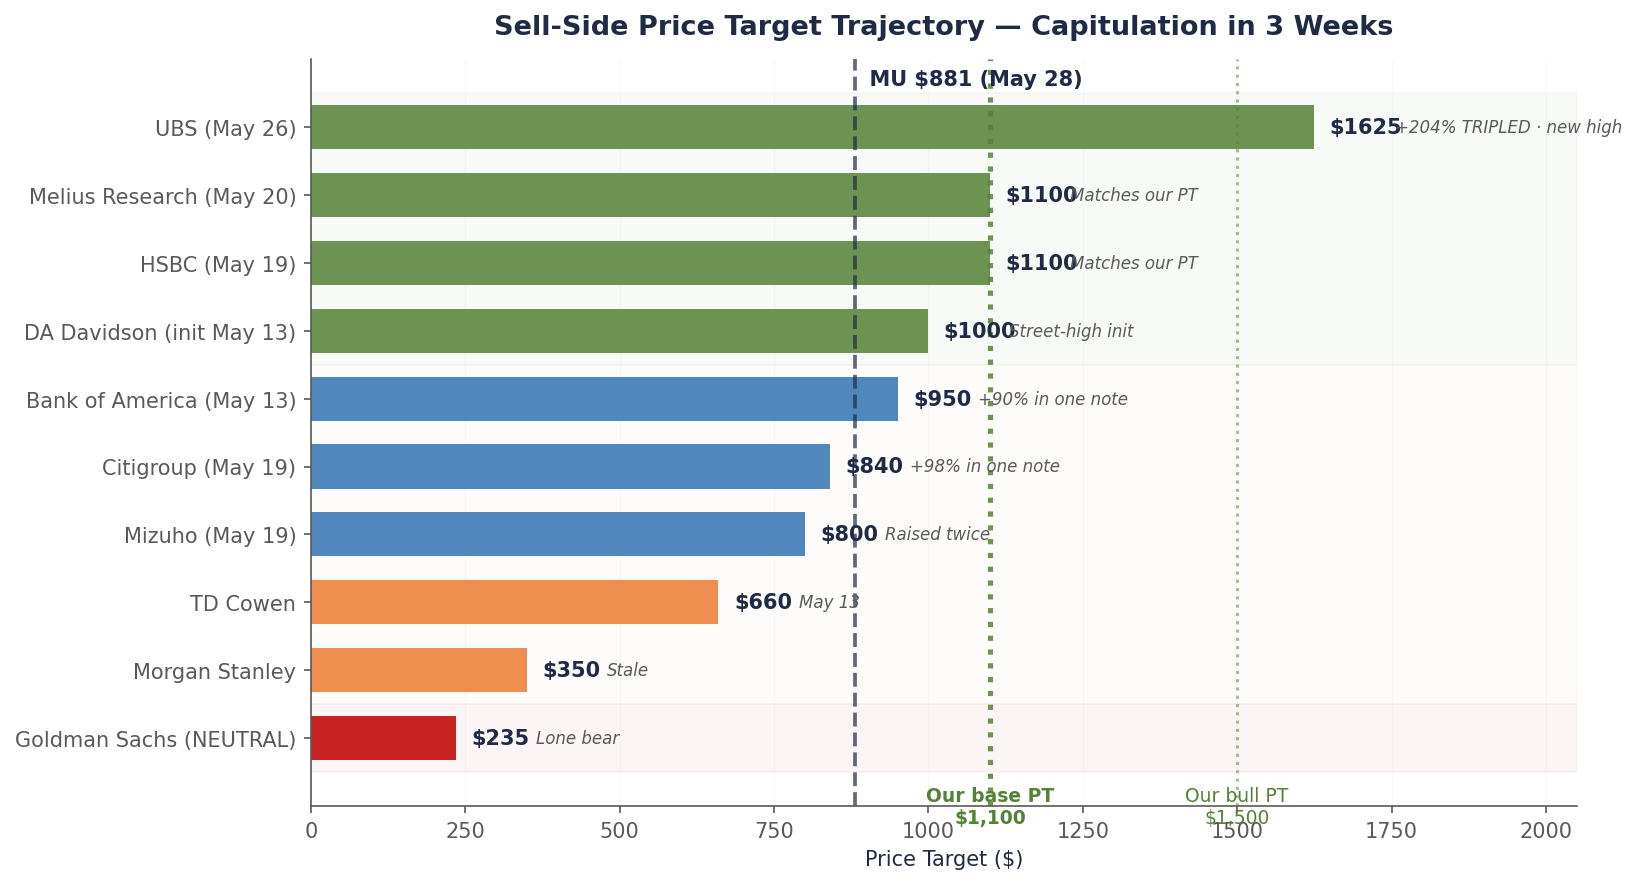
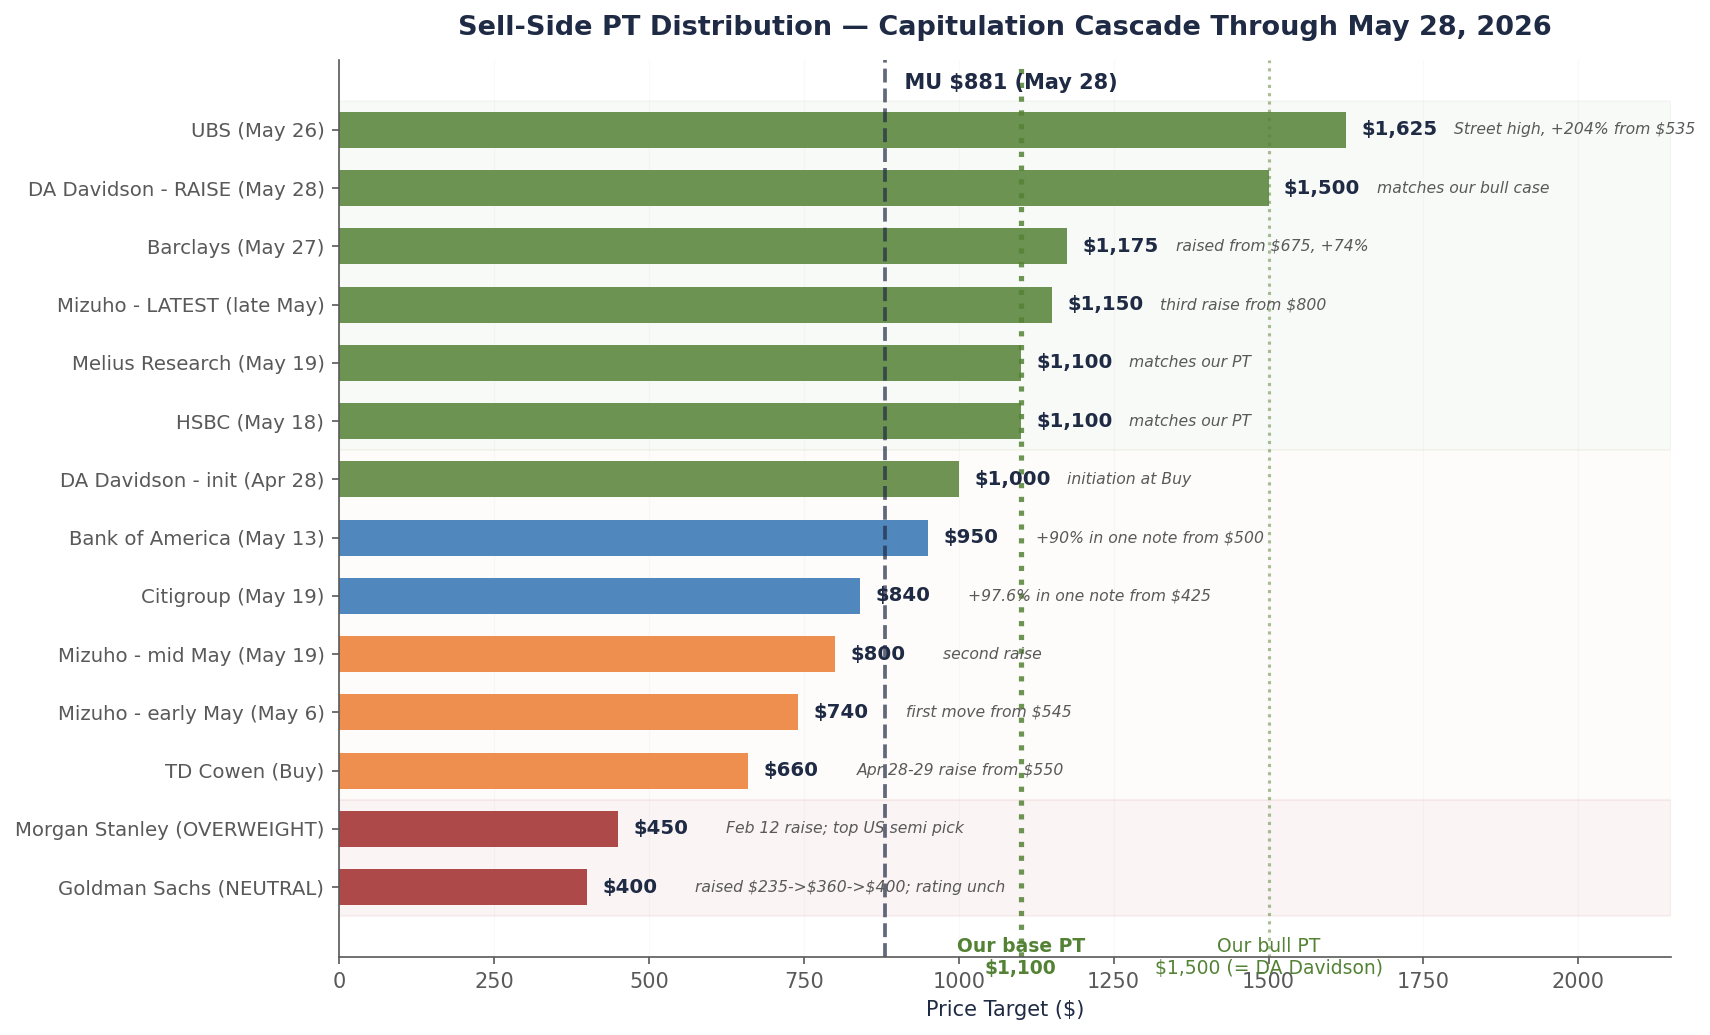
ship: MU June outlook + verified data refresh across MU series

Changed region(s): [[0.0, 0.0, 0.9976, 1.0], [0.717, 0.4887, 0.7482, 0.5498]]

diff --git a/mu-june-outlook-2026-05-31.html b/mu-june-outlook-2026-05-31.html
@@ -227,7 +227,7 @@
 
         <div class="pitch-thesis">
           <span class="pitch-thesis-label">The setup</span>
-          <p>For most of May, Micron was a story about sell-side capitulation. Nine analyst actions across eight banks in three weeks. UBS tripling its price target to a Street-high $1,625. The stock running from $668 to $923.52 &mdash; up 38% in 17 trading days. By Friday I&rsquo;d already hit my first trim level.</p>
+          <p>For most of May, Micron was a story about sell-side capitulation. More than a dozen verified analyst actions across eleven firms over five weeks. UBS tripling its price target to a Street-high $1,625. The stock running from $668 to $923.52 &mdash; up 38% in 17 trading days. By Friday I&rsquo;d already hit my first trim level.</p>
           <p>June stops being about narrative. <strong>FQ3 prints Wednesday June 24, after the close.</strong> Management guided $33.5B in revenue, 81% gross margin, and $19.15 in non-GAAP EPS. That&rsquo;s the bar a $1 trillion market cap has to clear. The number that decides whether the rally is the start of something or the end of something.</p>
           <p>What makes this print especially interesting: the last two quarters, MU has beaten its own guide by historically large margins. FQ2 was a 28% revenue beat and 45% EPS beat over what management told the Street to expect three months earlier. If even half of that pattern holds, FQ3 prints somewhere between &ldquo;clear beat&rdquo; and &ldquo;blowout.&rdquo; PT stays at $1,100. Next trim still at $1,100. The framework gets tested by an actual income statement instead of an analyst&rsquo;s spreadsheet.</p>
         </div>
@@ -245,11 +245,11 @@
 
         <p>Through May, the move was driven by analysts catching up to math that was already on the page. DRAM contract prices had moved 90&ndash;95% in a single quarter. Hyperscaler capex guides were the largest in the history of the industry. Micron itself had already printed 75% gross margin in FQ2. The estimates had to come up. Analysts came around to it in sequence. The stock came around to it in compressed time.</p>
 
-        <p>That&rsquo;s a story that runs out. There are only so many banks left to capitulate, and the ones who haven&rsquo;t yet (Goldman at $235 NEUTRAL, Morgan Stanley at a stale $350) are increasingly looking like the contrarians. When everyone above a thousand becomes consensus, the next leg has to come from somewhere other than sell-side mathematics.</p>
+        <p>That&rsquo;s a story that runs out. There are only so many banks left to capitulate. Goldman is still the lone NEUTRAL on the name &mdash; though they&rsquo;ve quietly walked their PT from $235 in December all the way to $400, while keeping the rating unchanged. Morgan Stanley&rsquo;s $450 OVERWEIGHT was set back in February and called MU the firm&rsquo;s top US semi pick &mdash; they haven&rsquo;t needed to chase. When everyone else above $1,000 becomes consensus, the next leg has to come from somewhere other than sell-side mathematics.</p>
 
         <p>It has to come from <strong>company numbers</strong>. From the actual income statement. From forward guidance. From management saying out loud what the spreadsheets have been implying.</p>
 
-        <div class="pull-quote">Sell-side models can pull a stock from $235 to $1,625 in three weeks. They can&rsquo;t pull it from $923 to $1,500 without an earnings number to point at. That&rsquo;s what June is.</div>
+        <div class="pull-quote">Sell-side targets can fan out 4&times; in five weeks &mdash; Goldman still at $400 NEUTRAL, UBS now at $1,625. They can&rsquo;t pull the stock from $923 to $1,500 without an earnings number to point at. That&rsquo;s what June is.</div>
 
         <p>The cleanest test arrives on Wednesday June 24, after the close. Micron reports fiscal Q3 2026 (the quarter ending May). It&rsquo;s the first earnings print since the whole memory complex re-priced. Every number management gives is going to be measured against the run-up &mdash; not against last quarter, not against last year, but against the $1 trillion the market has now decided the company is worth.</p>
       </section>
@@ -343,16 +343,16 @@
       <section class="pitch-section" id="sell-side-state">
         <h2>Where the sell-side actually stands today</h2>
 
-        <p>Three changes since the May 28 piece. DA Davidson raised PT from $1,000 to $1,500 (May 28 &mdash; now sits exactly on our bull case). Goldman&rsquo;s macro team hiked their S&amp;P 500 target to 8,000 and named Micron and NVIDIA as accounting for roughly a third of 2026 index EPS growth &mdash; without changing Goldman&rsquo;s own NEUTRAL rating on MU. Mizuho and BofA both reiterated post-UBS without raising further.</p>
+        <p>Four notable changes since the May 28 piece. <strong>DA Davidson raised PT from $1,000 to $1,500 (May 28)</strong> &mdash; sits exactly on our bull case. <strong>Barclays raised from $675 to $1,175 (May 27)</strong> &mdash; the chart now has another name above our PT that wasn&rsquo;t there before. <strong>Mizuho raised a third time, from $800 to $1,150</strong>, after two prior raises in May. And <strong>Goldman strategist Ben Snider hiked the S&amp;P 500 target to 8,000</strong> (from 7,600), explicitly naming Micron and NVIDIA as accounting for roughly a third of 2026 index EPS growth &mdash; while Goldman&rsquo;s single-stock desk kept MU at NEUTRAL.</p>
 
         <figure class="article-chart">
           <p class="chart-title">Chart 3 &mdash; Sell-side PT distribution, updated through May 31</p>
-          <p class="chart-headline">Six of ten analysts now sit at or above our base PT. Two are at or above our bull case.</p>
-          <img class="chart-img" src="assets/reports/mu-june-outlook-2026-05-31-c3-sellside-may31.png" alt="Updated sell-side price target distribution as of May 31, 2026 showing ten analyst price targets with Goldman lowest at $235, UBS highest at $1,625, and Brandon's $1,100 PT in the middle of the cluster" />
-          <p class="chart-caption">Goldman alone in red below current. UBS, DA Davidson, HSBC, and Melius now above or at our PT. Source: bank notes via Bloomberg, firm disclosures.</p>
+          <p class="chart-headline">Seven of fourteen analyst actions now at or above our base PT. Two at or above our bull case.</p>
+          <img class="chart-img" src="assets/reports/mu-june-outlook-2026-05-31-c3-sellside-may31.png" alt="Updated sell-side price target distribution as of May 31, 2026 showing 14 verified analyst actions with Goldman at $400 NEUTRAL the lowest, UBS at $1,625 the highest, and Brandon's $1,100 PT in the middle of the cluster" />
+          <p class="chart-caption">Goldman and Morgan Stanley still below current. UBS, DA Davidson, Barclays, Mizuho (latest), HSBC, and Melius now above or at our PT. Source: bank notes via Bloomberg, Investing.com, MarketBeat, TipRanks, firm disclosures.</p>
         </figure>
 
-        <p>The cross-confirmation read &mdash; Goldman&rsquo;s macro desk endorsing the MU earnings thesis while Goldman&rsquo;s single-stock desk stays NEUTRAL &mdash; is exactly the kind of internal dissonance that resolves loudly when someone capitulates. I&rsquo;d watch for a Goldman PT raise sometime in the next four weeks.</p>
+        <p>The cross-confirmation read &mdash; Goldman&rsquo;s strategy desk endorsing the MU earnings thesis while Goldman&rsquo;s single-stock desk stays NEUTRAL at $400 &mdash; is exactly the kind of internal dissonance that resolves loudly when someone capitulates. I&rsquo;d watch for a Goldman PT raise sometime in the next four weeks. Morgan Stanley at $450 OVERWEIGHT is the other obvious candidate &mdash; their February PT was set when MU was below $200; they&rsquo;ve had MU as their top US semi pick the whole way up.</p>
       </section>
 
       <section class="pitch-section" id="position">
@@ -411,7 +411,7 @@
       </section>
 
       <p class="disclosure">
-        Disclosure: I/we have a beneficial long position in the shares of MU either through stock ownership, options, or other derivatives. Position was reduced by approximately one-third on May 29, 2026 per the published trim ladder. I wrote this article myself, and it expresses my own opinions. I am not receiving compensation for it. I have no business relationship with any company whose stock is mentioned in this article. This is research and analysis only, not personalized financial advice. This commentary is for informational and educational purposes only and does not constitute investment, tax, or legal advice or a solicitation to buy or sell any security. Past performance is not indicative of future results. Readers should conduct their own research and consult a qualified financial professional before making investment decisions. Sources include Micron IR disclosures and 8-K filings, sell-side notes (UBS, BofA, HSBC, Melius Research, DA Davidson, Citigroup, Mizuho, TD Cowen, Morgan Stanley, Goldman Sachs), TrendForce DRAM contract pricing reports, Counterpoint Research HBM share data, hyperscaler Q1 2026 earnings transcripts, Korean Ministry of Trade export statistics, and Bloomberg consensus data. See <a href="disclaimer.html">disclaimer</a>.
+        Disclosure: I/we have a beneficial long position in the shares of MU either through stock ownership, options, or other derivatives. Position was reduced by approximately one-third on May 29, 2026 per the published trim ladder. I wrote this article myself, and it expresses my own opinions. I am not receiving compensation for it. I have no business relationship with any company whose stock is mentioned in this article. This is research and analysis only, not personalized financial advice. This commentary is for informational and educational purposes only and does not constitute investment, tax, or legal advice or a solicitation to buy or sell any security. Past performance is not indicative of future results. Readers should conduct their own research and consult a qualified financial professional before making investment decisions. Sources include Micron IR disclosures and 8-K filings, sell-side notes (UBS, BofA, HSBC, Melius Research, DA Davidson, Barclays, Citigroup, Mizuho, TD Cowen, Morgan Stanley, Goldman Sachs), TrendForce DRAM contract pricing reports, Counterpoint Research HBM share data, hyperscaler Q1 2026 earnings transcripts, Korean Ministry of Trade export statistics, and Bloomberg consensus data. See <a href="disclaimer.html">disclaimer</a>.
       </p>
 
       <div class="pitch-cta">

diff --git a/mu-after-ubs-2026-05-28.html b/mu-after-ubs-2026-05-28.html
@@ -7,7 +7,7 @@
   <meta name="color-scheme" content="light only" />
   <meta name="theme-color" content="#fbf7ef" />
   <meta name="supported-color-schemes" content="light" />
-  <meta name="description" content="Three weeks ago Goldman was at $235 on Micron and everyone agreed memory cycles always end in tears. On Tuesday UBS tripled their price target to $1,625 and the stock crossed $1 trillion. The variant view became consensus. Now comes the harder discipline." />
+  <meta name="description" content="Three weeks ago Goldman was at $400 NEUTRAL on Micron and the street median was below $600. On Tuesday UBS tripled their price target to $1,625 and the stock crossed $1 trillion. The variant view became consensus. Now comes the harder discipline." />
   <meta name="author" content="Brandon Leon" />
   <link rel="canonical" href="https://bpleon.com/mu-after-ubs-2026-05-28.html" />
 
@@ -222,7 +222,7 @@
         <div class="pitch-thesis">
           <span class="pitch-thesis-label">The bottom line</span>
           <p>A memory analyst&rsquo;s career goes through three phases. First they&rsquo;re a bull, and they&rsquo;re right for a while. Then they&rsquo;re a bull, and they&rsquo;re catastrophically wrong. Then they spend the rest of their career being a careful, modest bear who occasionally gets ridiculed for missing the next supercycle. Last week, after Micron crossed a trillion dollars in market cap, I started thinking about which phase I&rsquo;m in.</p>
-          <p>Three weeks ago I argued that Wall Street had a math problem on Micron: earnings estimates had been revised up 3.6&times; over eighteen months, but price targets hadn&rsquo;t followed. Goldman sat at $235 with a NEUTRAL rating &mdash; a 2.35&times; multiple on peak earnings. The variant view: apply 11&times; (Micron&rsquo;s historical recovery-year multiple) to consensus FY27 EPS of $100, and you get a $1,100 price target. Roughly double the street median of $549.</p>
+          <p>Three weeks ago I argued that Wall Street had a math problem on Micron: earnings estimates had been revised up 3.6&times; over eighteen months, but price targets hadn&rsquo;t kept pace. Goldman sat at $400 NEUTRAL &mdash; a 4&times; forward multiple on a consensus EPS that had been moving steadily higher. Historical MU recovery years (FY16, FY20, FY24) traded at 11&ndash;14&times; the same-year EPS. The variant view: apply 11&times; (the median of that sample) to a credible FY27 EPS of $100, and you get a $1,100 price target. Roughly double the street median of $549.</p>
           <p>On Tuesday May 26, UBS tripled their price target from $535 to $1,625. The stock briefly crossed $1 trillion in market cap for the first time in company history. The variant view became consensus &mdash; faster than I expected.</p>
           <p><strong>My PT stays at $1,100.</strong> I&rsquo;m not chasing UBS higher. The trim ladder I committed to at $668 still runs: $900 / $1,100 / $1,400 / full exit at $1,500 or any kill-shot. The hardest discipline isn&rsquo;t holding a contrarian view. It&rsquo;s giving up the contrarian view when it stops being contrarian.</p>
         </div>
@@ -237,10 +237,10 @@
       </header>
 
       <figure class="article-chart">
-        <p class="chart-title">Chart 1 &mdash; Sell-side capitulation in three weeks</p>
-        <p class="chart-headline">Goldman alone at $235 in red. UBS new high at $1,625. Two banks land exactly on our $1,100.</p>
-        <img class="chart-img" src="assets/reports/mu-after-ubs-2026-05-28-c1-pt-trajectory.png" alt="Sell-side price target trajectory: Goldman at $235 NEUTRAL versus UBS at $1,625, with Brandon's $1,100 PT in between" />
-        <p class="chart-caption">Nine separate analyst actions across eight banks in three weeks. The cascade started with Mizuho on May 6, escalated with BofA on May 13, accelerated with Citi and HSBC on May 19, and broke open with UBS on May 26. Source: bank notes via Bloomberg / company disclosures.</p>
+        <p class="chart-title">Chart 1 &mdash; Sell-side capitulation in five weeks</p>
+        <p class="chart-headline">Goldman the lone bear at $400 NEUTRAL. UBS the new high at $1,625. Six banks now sit at or above our $1,100.</p>
+        <img class="chart-img" src="assets/reports/mu-after-ubs-2026-05-28-c1-pt-trajectory.png" alt="Sell-side price target distribution as of May 28, 2026 showing 14 analyst actions across 12 banks, with Goldman lowest at $400 NEUTRAL and UBS highest at $1,625, with Brandon's $1,100 PT marked" />
+        <p class="chart-caption">Fourteen separate analyst actions across twelve banks since late April. The cascade started with DA Davidson&rsquo;s April 28 initiation, escalated through BofA on May 13 and HSBC/Citi/Mizuho/Melius on May 18-19, peaked the week of May 26 with UBS ($1,625), Barclays ($1,175), Mizuho&rsquo;s third raise ($1,150), and DA Davidson&rsquo;s raise to $1,500. Source: bank notes via Bloomberg, Investing.com, MarketBeat, firm disclosures.</p>
       </figure>
 
       <section class="pitch-section" id="how-a-stampede-starts">
@@ -248,13 +248,13 @@
 
         <p>Wall Street analysts capitulate in a predictable way: not all at once, but in a sequence that makes each individual decision look reasonable. Nobody wants to be the first to break from consensus. But nobody wants to be the last one defending the old view either.</p>
 
-        <p>Mizuho moved first, on May 6, bumping their PT from $545 to $740. A respectable raise. Nothing dramatic.</p>
+        <p>The bull case had been building quietly for weeks. DA Davidson initiated coverage on April 28 with a Street-high $1,000 PT. TD Cowen raised to $660 the same week. Then Mizuho moved on May 6, bumping their PT from $545 to $740. Respectable raises. Nothing yet dramatic.</p>
 
-        <p>Then on May 13, Bank of America raised their PT from $500 to $950. That&rsquo;s a 90% increase in a single note. DA Davidson initiated coverage the same day at $1,000. TD Cowen raised to $660. Three banks moving in one session. The dam had a crack.</p>
+        <p>Then on May 13, Bank of America broke the format. They raised their PT from $500 to $950. That&rsquo;s a 90% increase in a single note &mdash; the moment when one of the biggest cautious houses on the name switched sides. The dam had a crack.</p>
 
-        <p>On May 19, the crack became a flood. Citigroup went $425 to $840. HSBC went $750 to $1,100 &mdash; landing exactly on my number. Mizuho raised again, to $800. Melius Research the next day matched HSBC at $1,100.</p>
+        <p>On May 18, HSBC went $750 to $1,100 &mdash; landing exactly on my number. The next day, May 19, the crack became a flood: Citigroup went $425 to $840 in a single move (+98%). Mizuho raised again, to $800. Melius Research the same day matched HSBC at $1,100. Three banks moving in one session.</p>
 
-        <p>Then on May 26, UBS broke the format. $535 to $1,625. A 204% increase. The largest single-note PT raise I&rsquo;ve tracked. And just to make the point, UBS&rsquo;s implied market cap of $1.8 trillion would make Micron the seventh-largest company in America &mdash; ahead of Tesla, ahead of Meta, ahead of Berkshire Hathaway.</p>
+        <p>The cascade peaked the week of May 26. Monday, UBS broke the format. $535 to $1,625. A 204% increase. The largest single-note PT raise I&rsquo;ve tracked. Wednesday, Barclays followed with $675 to $1,175. Thursday, DA Davidson raised again from $1,000 to $1,500 &mdash; matching my bull case. Mizuho subsequently raised a third time to $1,150. And just to make the point, UBS&rsquo;s implied market cap of $1.8 trillion would make Micron the seventh-largest company in America &mdash; ahead of Tesla, ahead of Meta, ahead of Berkshire Hathaway.</p>
 
         <div class="pull-quote">Sell-side analysts cover memory the way meteorologists cover Florida hurricanes. They have models that work in normal weather, and models that work in disasters, and they switch between the two whichever way the wind is blowing today.</div>
 
@@ -411,7 +411,7 @@
       </section>
 
       <p class="disclosure">
-        Disclosure: I/we have a beneficial long position in the shares of MU either through stock ownership, options, or other derivatives. I wrote this article myself, and it expresses my own opinions. I am not receiving compensation for it. I have no business relationship with any company whose stock is mentioned in this article. This is research and analysis only, not personalized financial advice. This commentary is for informational and educational purposes only and does not constitute investment, tax, or legal advice or a solicitation to buy or sell any security. Past performance is not indicative of future results. Readers should conduct their own research and consult a qualified financial professional before making investment decisions. Sources include Micron IR disclosures, sell-side notes (UBS, BofA, HSBC, Melius Research, DA Davidson, Citigroup, Mizuho, TD Cowen, Morgan Stanley, Goldman Sachs), TrendForce DRAM contract pricing, Counterpoint Research HBM share data, hyperscaler Q1 2026 earnings transcripts, and Bloomberg consensus data. See <a href="disclaimer.html">disclaimer</a>.
+        Disclosure: I/we have a beneficial long position in the shares of MU either through stock ownership, options, or other derivatives. I wrote this article myself, and it expresses my own opinions. I am not receiving compensation for it. I have no business relationship with any company whose stock is mentioned in this article. This is research and analysis only, not personalized financial advice. This commentary is for informational and educational purposes only and does not constitute investment, tax, or legal advice or a solicitation to buy or sell any security. Past performance is not indicative of future results. Readers should conduct their own research and consult a qualified financial professional before making investment decisions. Sources include Micron IR disclosures, sell-side notes (UBS, BofA, HSBC, Melius Research, DA Davidson, Barclays, Citigroup, Mizuho, TD Cowen, Morgan Stanley, Goldman Sachs), TrendForce DRAM contract pricing, Counterpoint Research HBM share data, hyperscaler Q1 2026 earnings transcripts, and Bloomberg consensus data. See <a href="disclaimer.html">disclaimer</a>.
       </p>
 
       <div class="pitch-cta">

diff --git a/writing.html b/writing.html
@@ -138,7 +138,7 @@
         <article>
           <time>2026-05-28 &middot; updated May 29</time>
           <h2><a href="mu-after-ubs-2026-05-28.html">I bought Micron at $668. Here&rsquo;s why I&rsquo;m not buying at $881.</a> <span class="writing-tag">Single-name pitch</span></h2>
-          <p>UBS tripled its PT to a Street-high $1,625. Three weeks ago I was the lone voice at $1,100; now nine of ten analysts are above me. DA Davidson followed at $1,500. MU closed Friday at $923.52 &mdash; my first trim level fired the day after publishing. PT stays at $1,100; ladder continues at $1,100 / $1,400 / $1,500 full exit. When the variant view becomes consensus, the discipline isn&rsquo;t celebration. It&rsquo;s trim.</p>
+          <p>UBS tripled its PT to a Street-high $1,625. Three weeks ago I was the lone voice at $1,100; now six of eleven sell-side firms are at or above me and two are at or above my $1,500 bull case (UBS, DA Davidson). MU closed Friday at $923.52 &mdash; my first trim level fired the day after publishing. PT stays at $1,100; ladder continues at $1,100 / $1,400 / $1,500 full exit. When the variant view becomes consensus, the discipline isn&rsquo;t celebration. It&rsquo;s trim.</p>
         </article>
 
         <article>
